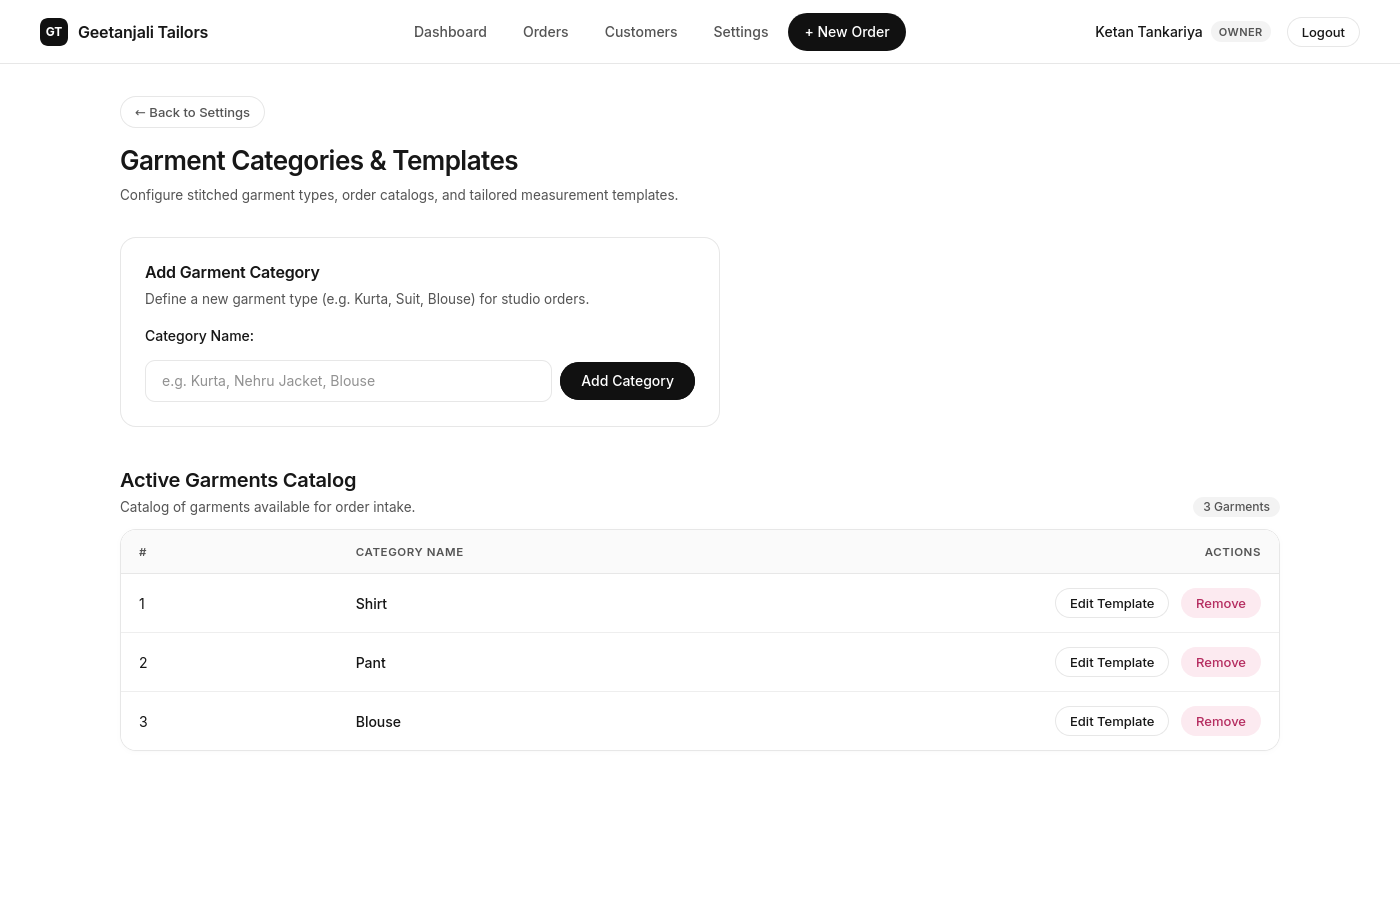
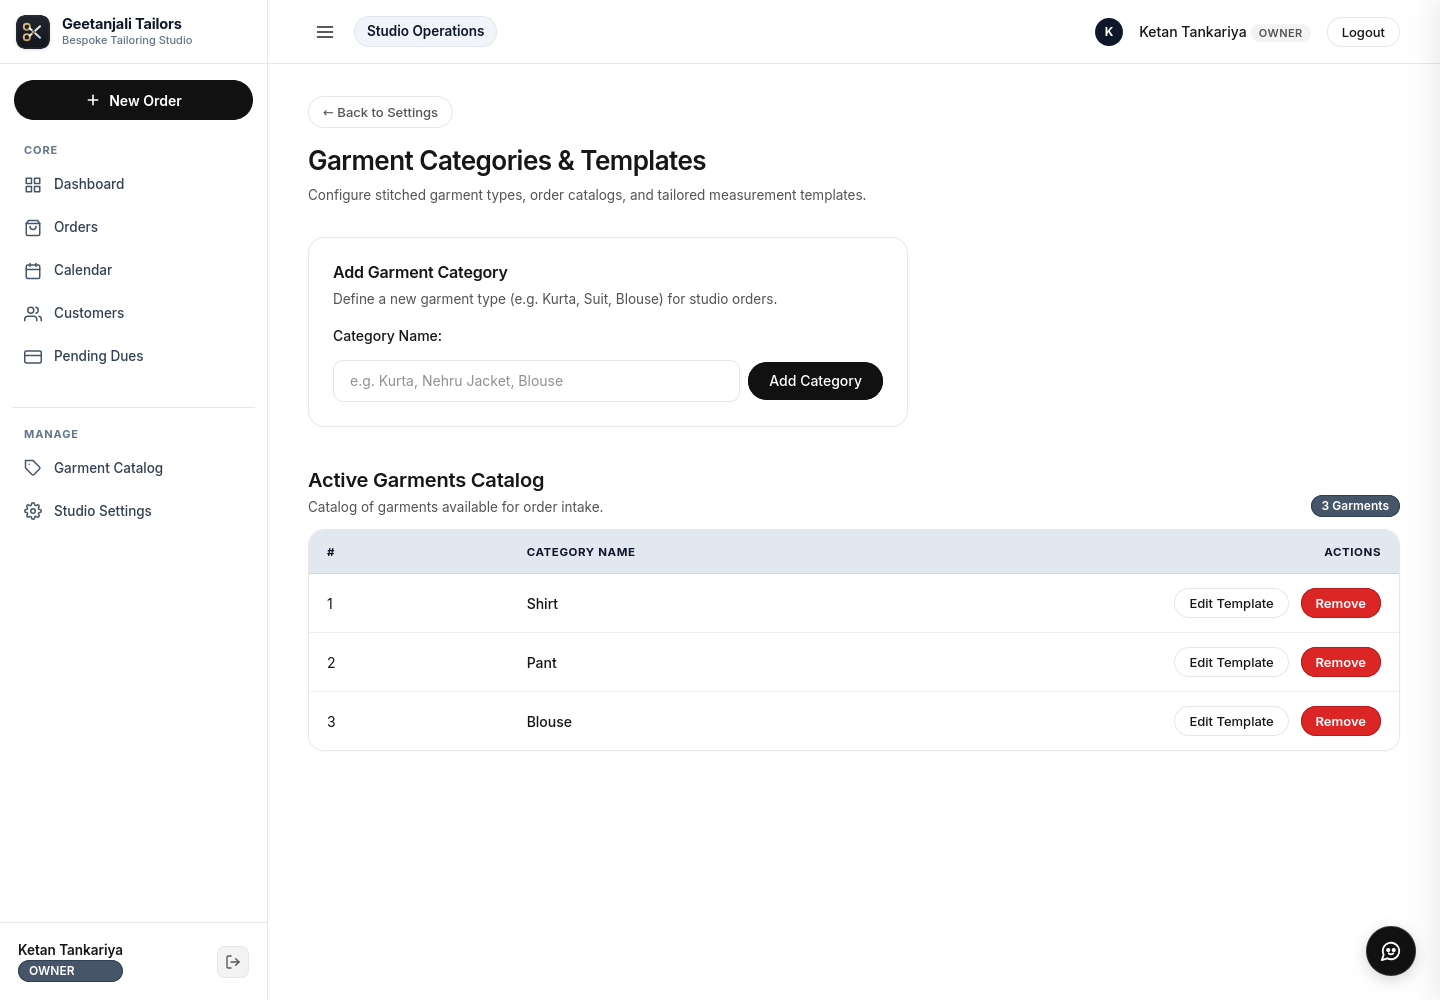
docs: refresh all documentation images with live styled captures and calendar view
- Update all 8 screenshots with live high-res captures from running application
- Ensure all screens feature full Sarvam AI CSS styling, collapsible sidebar, and Inter typography
- Add Google Calendar-style delivery grid as visual tour screenshot #5
- Remove outdated pre-styling screenshots

diff --git a/README.md b/README.md
@@ -56,9 +56,9 @@ Two-column customer profile displaying complete historical orders, running outst
 
 ---
 
-### 5. Multi-Step Order Booking Wizard
-Rapid 4-step order entry flow with customer auto-fill, interactive garment category tiles, and cloth swatch photo upload.
-![Order Creation Wizard](docs/images/05-order-creation-wizard.png)
+### 5. Google Calendar-Style Delivery & Production Scheduler
+7-column boxed month grid with capacity dot chips (Green <4, Yellow 4-5, Red 5+), monthly delivery metrics, and top peak delivery days ranking.
+![Delivery & Production Calendar](docs/images/05-delivery-calendar.png)
 
 ---
 
